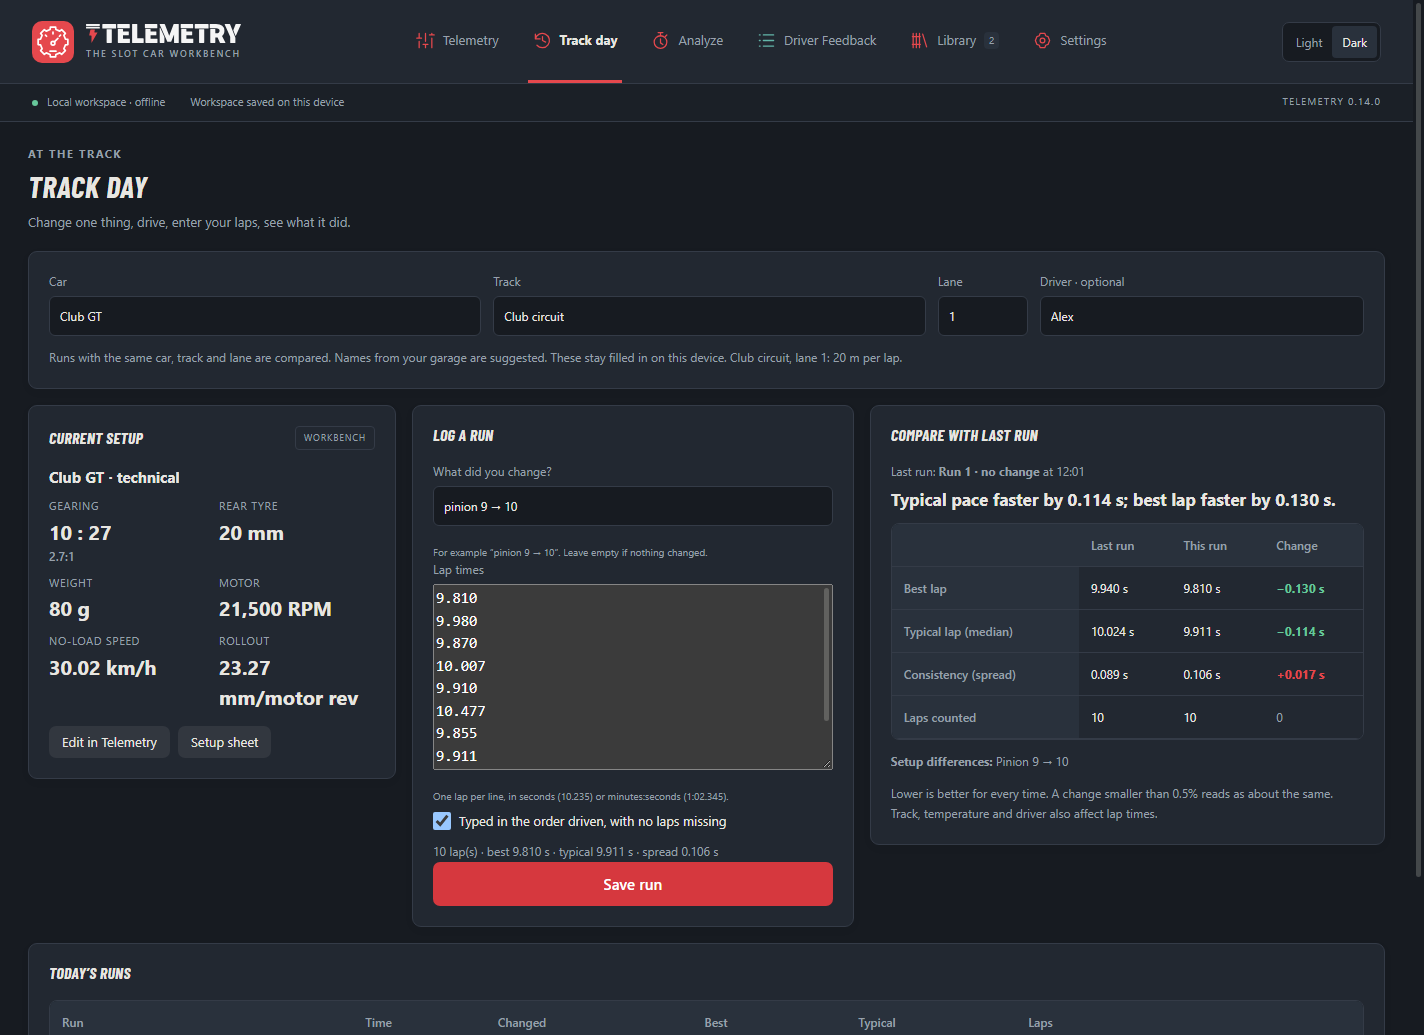
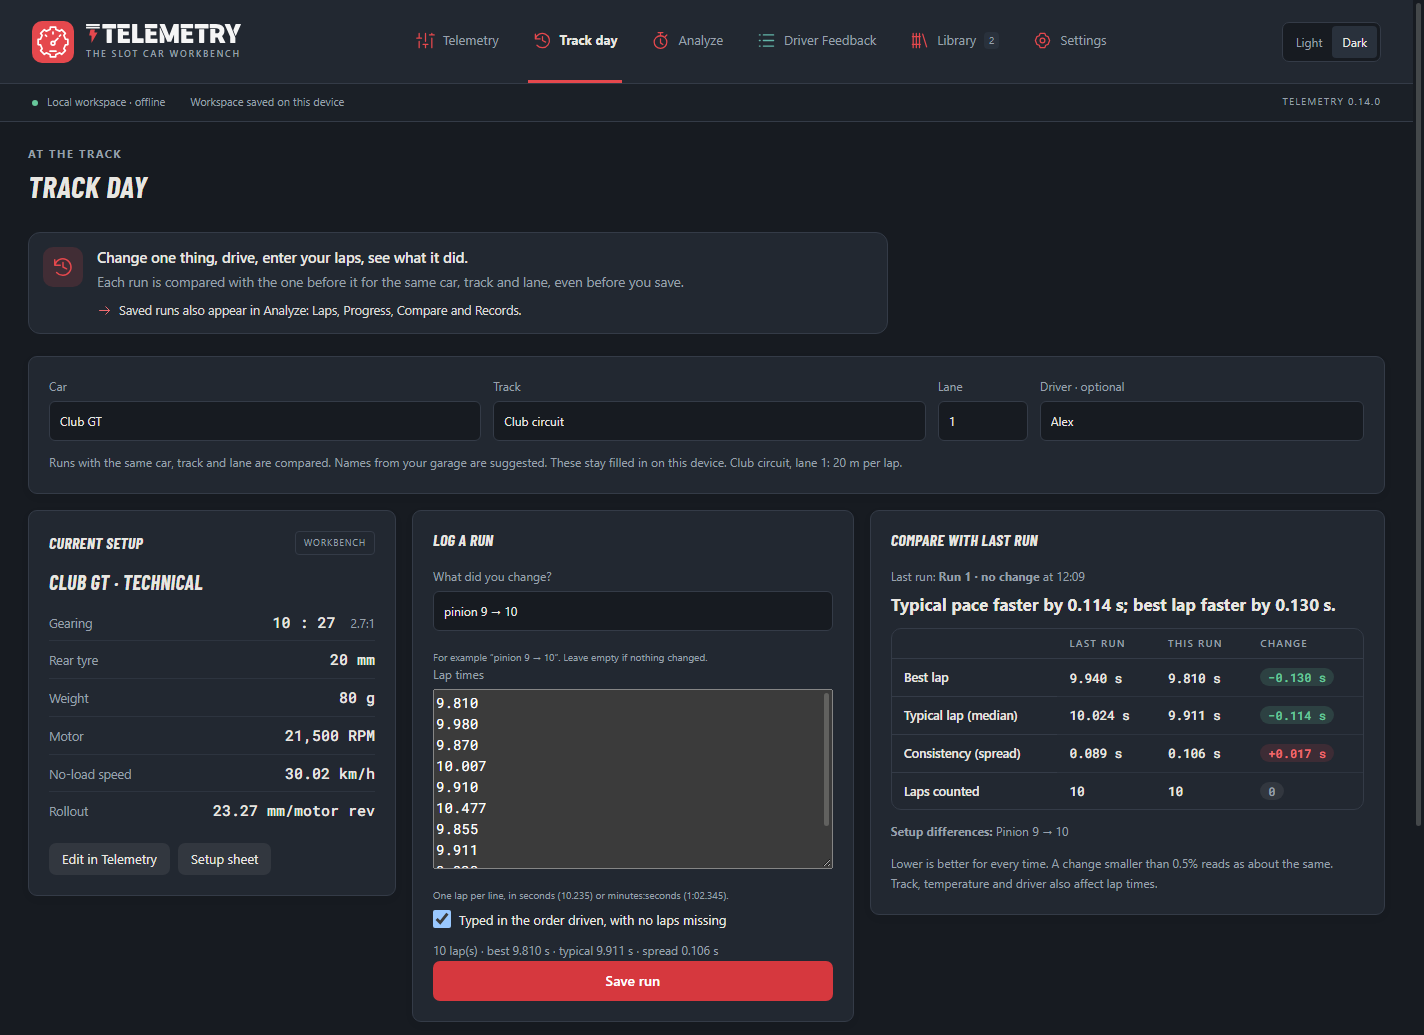
Track day: Page Note, detail rows and Race Sheet tables
The sixth step of the SlotForge Restyle, for Track day:

- restyle.css gains two shared styles for the next pages: Page Note
  (.sn: icon tile, what it is, how it behaves, where you use it) and
  Race Sheet (.race-sheet: small grey capitals over the columns, quiet
  rows, .num cells in Roboto Mono, .gap-chip green faster / red slower).
- Track day opens with a Page Note in place of the subtitle.
- Current setup is a list of detail rows, name left and value right in
  Roboto Mono, so long values such as the rollout stay on one line.
- Compare with last run and Today's runs are Race Sheets; each change
  is a gap chip. Save run is a normal-height button; lap times are
  typed in Roboto Mono.
- README pictures remade.

All 244 unit, 3 interop and 21 desktop suites pass.

diff --git a/renderer/trackday-view.js b/renderer/trackday-view.js
@@ -9,7 +9,7 @@ const TrackdayUI=(()=>{
   function init(){
     try{const v=JSON.parse(localStorage.getItem(KEY)||'null');if(v)ctx={car:String(v.car||''),track:String(v.track||''),lane:Number.isInteger(v.lane)&&v.lane>=1&&v.lane<=64?v.lane:1,driver:String(v.driver||''),sequence:v.sequence===true};}catch{/* Defaults. */}
     q('[data-route=telemetry]').insertAdjacentHTML('afterend','<a href="#trackday" data-route="trackday">Track day</a>');
-    q('[data-page=telemetry]').insertAdjacentHTML('afterend',`<section data-page="trackday" hidden><div class="page-head"><div><p class="eyebrow">AT THE TRACK</p><h1>Track day</h1><p>Change one thing, drive, enter your laps, see what it did.</p></div></div>
+    q('[data-page=telemetry]').insertAdjacentHTML('afterend',`<section data-page="trackday" hidden><div class="page-head"><div><p class="eyebrow">AT THE TRACK</p><h1>Track day</h1></div></div><div class="sn"><span class="sn-tile">${sfIcon('history')}</span><p class="sn-lead">Change one thing, drive, enter your laps, see what it did.</p><p class="sn-more">Each run is compared with the one before it for the same car, track and lane, even before you save.</p><p class="sn-use">${sfIcon('next')}<span>Saved runs also appear in Analyze: Laps, Progress, Compare and Records.</span></p></div>
     <section class="panel trackday-context" aria-label="Session"><div class="trackday-context-grid">
      <label class="field">Car<input id="trackday-car" maxlength="200" autocomplete="off" list="trackday-car-list"></label><label class="field">Track<input id="trackday-track" maxlength="200" autocomplete="off" list="trackday-track-list"></label><datalist id="trackday-car-list"></datalist><datalist id="trackday-track-list"></datalist>
      <label class="field">Lane<input id="trackday-lane" type="number" min="1" max="64" step="1" inputmode="numeric"></label><label class="field">Driver · optional<input id="trackday-driver" maxlength="200" autocomplete="off"></label></div>
@@ -61,7 +61,7 @@ const TrackdayUI=(()=>{
     const names={pinion:['Pinion',''],gear:['Driven gear',''],rearDiameter:['Rear tyre','mm'],weight:['Weight','g'],ratedRpm:['Motor RPM','']};
     const show=(v,unit)=>v===null||v===undefined||v===''?'—':unit&&Number.isFinite(Number(v))?unitText(Number(v),unit):esc(v);
     const differences=RaceModel.configurationChanges(prior,current).technical.filter(d=>names[d.field]).map(d=>({field:names[d.field][0],before:show(d.before,names[d.field][1]),after:show(d.after,names[d.field][1])}));
-    return `<p class="trackday-verdict">${esc(TrackdayModel.verdict(rows))}</p><div class="table-wrap"><table><thead><tr><th></th><th>${esc(labels[0])}</th><th>${esc(labels[1])}</th><th>Change</th></tr></thead><tbody>${rows.map(r=>`<tr><th>${r.label}</th><td>${r.key==='count'?r.before:time(r.before)}</td><td>${r.key==='count'?r.after:time(r.after)}</td><td class="${tone[r.verdict]||'neutral'}">${r.key==='count'?(r.delta>0?'+':'')+r.delta:r.verdict==='same'?'about the same':signed(r.delta)}</td></tr>`).join('')}</tbody></table></div>
+    return `<p class="trackday-verdict">${esc(TrackdayModel.verdict(rows))}</p><div class="table-wrap race-sheet"><table><thead><tr><th></th><th>${esc(labels[0])}</th><th>${esc(labels[1])}</th><th>Change</th></tr></thead><tbody>${rows.map(r=>`<tr><th>${r.label}</th><td class="num">${r.key==='count'?r.before:time(r.before)}</td><td class="num">${r.key==='count'?r.after:time(r.after)}</td><td class="${tone[r.verdict]||'neutral'}"><span class="gap-chip">${r.key==='count'?(r.delta>0?'+':'')+r.delta:r.verdict==='same'?'about the same':signed(r.delta)}</span></td></tr>`).join('')}</tbody></table></div>
      ${differences.length?`<p class="hint"><strong>Setup differences:</strong> ${differences.map(d=>`${d.field} ${d.before} → ${d.after}`).join(' · ')}</p>`:''}
      <p class="hint">Lower is better for every time. A change smaller than 0.5% reads as about the same. Track, temperature and driver also affect lap times.</p>`;
   }
@@ -90,7 +90,7 @@ const TrackdayUI=(()=>{
       }else box.innerHTML='<p class="hint">No runs yet for this car, track and lane. Type your first run’s laps to start.</p>';
     }
     const list=valid?TrackdayModel.today(runs,c):[];
-    q('#trackday-today').innerHTML=list.length?`<div class="table-wrap"><table><thead><tr><th>Run</th><th>Time</th><th>Changed</th><th>Best</th><th>Typical</th><th>Laps</th><th></th></tr></thead><tbody>${list.map(r=>{const st=RaceModel.statistics(r);return `<tr><th>${esc(r.sessionName)}</th><td>${clock(r.startedAt)}</td><td>${esc(TrackdayModel.changeOf(r)||'—')}</td><td>${time(st.best)}</td><td>${time(st.median)}</td><td>${st.count}</td><td><button type="button" class="btn small" data-trackday-open="${esc(r.id)}">Analyze</button></td></tr>`;}).join('')}</tbody></table></div>`:'<p class="hint">Runs you save today for this car, track and lane appear here.</p>';
+    q('#trackday-today').innerHTML=list.length?`<div class="table-wrap race-sheet"><table><thead><tr><th>Run</th><th>Time</th><th>Changed</th><th>Best</th><th>Typical</th><th>Laps</th><th></th></tr></thead><tbody>${list.map(r=>{const st=RaceModel.statistics(r);return `<tr><th>${esc(r.sessionName)}</th><td class="num">${clock(r.startedAt)}</td><td>${esc(TrackdayModel.changeOf(r)||'—')}</td><td class="num">${time(st.best)}</td><td class="num">${time(st.median)}</td><td class="num">${st.count}</td><td><button type="button" class="btn small" data-trackday-open="${esc(r.id)}">Analyze</button></td></tr>`;}).join('')}</tbody></table></div>`:'<p class="hint">Runs you save today for this car, track and lane appear here.</p>';
     for(const b of document.querySelectorAll('[data-trackday-open]'))b.onclick=()=>RaceUI.openRun(b.dataset.trackdayOpen);
   }
   async function saveRun(){

diff --git a/renderer/restyle.css b/renderer/restyle.css
@@ -56,3 +56,27 @@ input[type=file]::file-selector-button:hover{background:color-mix(in srgb,var(--
 *::-webkit-scrollbar-track,*::-webkit-scrollbar-corner{background:transparent}
 *::-webkit-scrollbar-thumb{border:3px solid transparent;border-radius:8px;background:color-mix(in srgb,var(--ink) 22%,transparent) padding-box}
 *::-webkit-scrollbar-thumb:hover{background-color:color-mix(in srgb,var(--ink) 34%,transparent)}
+
+/* ---------- Page Note: what a page is, how it behaves, where you use it ---------- */
+.sn{display:grid;grid-template-columns:40px minmax(0,1fr);column-gap:14px;row-gap:3px;align-items:start;max-width:860px;margin:4px 0 22px;padding:14px 18px 14px 14px;border:1px solid var(--line);border-radius:12px;background:var(--panel)}
+.sn-tile{grid-row:1 / span 3;display:grid;place-items:center;width:40px;height:40px;border-radius:10px;background:color-mix(in srgb,var(--c,var(--accent)) 16%,var(--panel));color:var(--c,var(--accent))}
+.sn-tile .sf-icon{width:22px;height:22px}
+.sn-lead{grid-column:2;margin:0;color:var(--ink);font-size:14.5px;font-weight:600;line-height:1.45}
+.sn-more{grid-column:2;margin:0;color:var(--muted);font-size:13.5px;line-height:1.55}
+.sn-use{grid-column:2;display:flex;align-items:center;gap:7px;margin:7px 0 0;color:color-mix(in srgb,var(--ink) 82%,var(--muted));font-size:12.5px;line-height:1.4}
+.sn-use .sf-icon{flex:none;width:15px;height:15px;color:var(--accent-text,var(--accent))}
+.sn:empty{display:none}
+
+/* ---------- Race Sheet: quiet tables with small grey capitals over the columns ---------- */
+.race-sheet{border:1px solid var(--line);border-radius:10px;background:var(--panel)}
+.race-sheet table{background:none;font-size:12.5px}
+.race-sheet th{padding:8px 12px;border:0;border-bottom:1px solid var(--line);background:none;color:var(--muted);font:600 10px/1.3 'Segoe UI',system-ui,sans-serif;letter-spacing:.12em;text-transform:uppercase;text-align:left;white-space:nowrap}
+.race-sheet tbody th{font:600 12.5px/1.35 'Segoe UI',system-ui,sans-serif;letter-spacing:0;text-transform:none;color:var(--ink);white-space:normal}
+.race-sheet td{padding:9px 12px;border:0;border-bottom:1px solid color-mix(in srgb,var(--line) 65%,transparent);background:none}
+.race-sheet tbody tr:last-child :is(td,th){border-bottom:0}
+.race-sheet tbody tr:hover :is(td,th){background:color-mix(in srgb,var(--ink) 3%,transparent)}
+.race-sheet .num{font:500 12.5px var(--sf-mono);white-space:nowrap}
+/* A gap chip: green faster, red slower. */
+.gap-chip{display:inline-block;padding:1px 8px;border-radius:10px;font:600 12px var(--sf-mono);white-space:nowrap;background:color-mix(in srgb,var(--ink) 8%,var(--panel));color:var(--muted)}
+.good>.gap-chip{background:color-mix(in srgb,var(--green) 16%,var(--panel));color:var(--green)}
+.bad>.gap-chip{background:color-mix(in srgb,var(--accent) 14%,var(--panel));color:var(--accent-text,var(--accent))}

diff --git a/renderer/trackday.css b/renderer/trackday.css
@@ -20,3 +20,16 @@
 .trackday-today{margin-top:16px}
 @media(max-width:1100px){.trackday-layout{grid-template-columns:1fr 1fr}.trackday-compare{grid-column:1/-1}}
 @media(max-width:760px){.trackday-layout{grid-template-columns:1fr}.trackday-context-grid{grid-template-columns:1fr 1fr;gap:10px}}
+
+/* SlotForge Restyle: the setup as detail rows (name left, value right in Roboto Mono), a calmer Save run,
+   the compare and Today's runs tables as Race Sheets (see restyle.css). */
+.trackday-setup-name{font:italic 700 20px/1.15 var(--sf-title);text-transform:uppercase;letter-spacing:.02em}
+.trackday-figures{grid-template-columns:1fr;gap:0}
+.trackday-figures div{display:flex;align-items:baseline;justify-content:space-between;gap:12px;padding:8px 0;border-bottom:1px solid color-mix(in srgb,var(--line) 65%,transparent)}
+.trackday-figures div:last-child{border-bottom:0}
+.trackday-figures dt{font-size:12.5px;letter-spacing:0;text-transform:none}
+.trackday-figures dd{margin:0;font:500 15px var(--sf-mono);white-space:nowrap;text-align:right}
+.trackday-figures dd small{display:inline;margin-left:6px;font:400 12px 'Segoe UI',system-ui,sans-serif}
+.trackday-log .btn.primary{min-height:40px;padding:0 14px;font-size:14px}
+.trackday-log textarea{font-family:var(--sf-mono);font-size:14px}
+.trackday-compare td:is(.good,.bad){font-weight:400}

diff --git a/CHANGELOG.md b/CHANGELOG.md
@@ -42,6 +42,13 @@ Telemetry starts to follow the new shared SlotForge look of Timing and Paddock (
 - **Quick setup / Measure the car / Plan & test / Everything** is a quiet switch: the chosen level is lifted in grey, not outlined in red.
 - **Input and result folders** are plain boxes with their name in the title type and a chevron. An open folder gets a thin accent line on its left and shows its icon in colour; closed folders are grey. Pinned result groups show a grey Pin.
 
+### Track day in the new look
+
+- **A short note under the title** explains the page: change one thing, drive, enter your laps. Each run is compared with the one before it, and saved runs also appear in Analyze.
+- **Current setup** is a list of rows, with the name on the left and the value on the right in the numbers type, so long values such as the rollout stay on one line.
+- **Compare with last run** and **Today's runs** are quiet tables: small grey column names, thin lines and times in the numbers type. Each change shows as a small green (faster) or red (slower) chip.
+- *Save run* is a normal-height button, and lap times are typed in the numbers type.
+
 ## 0.14.0 — 17 November 2026 · Track day, Garage and backups
 
 ### Faster with a full library
